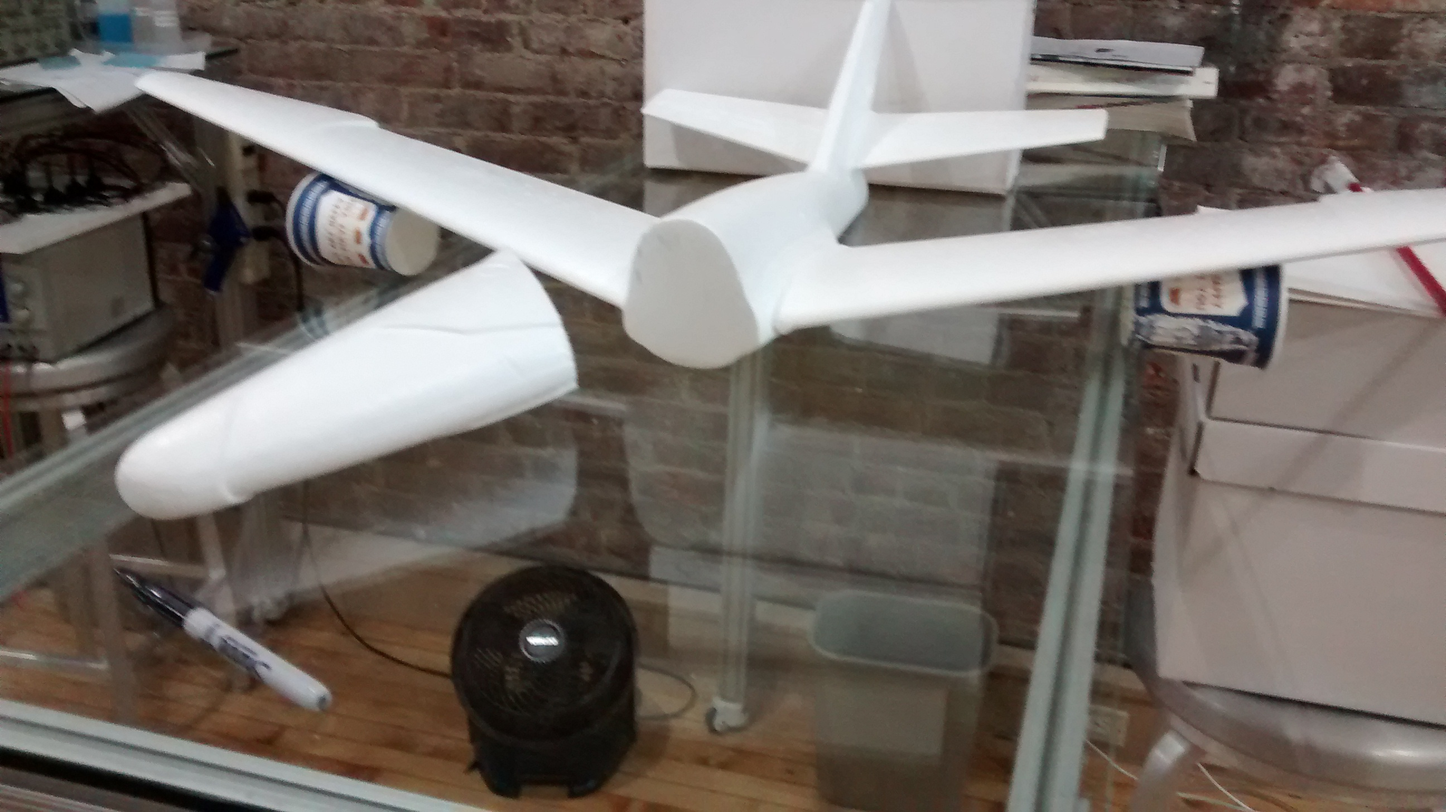
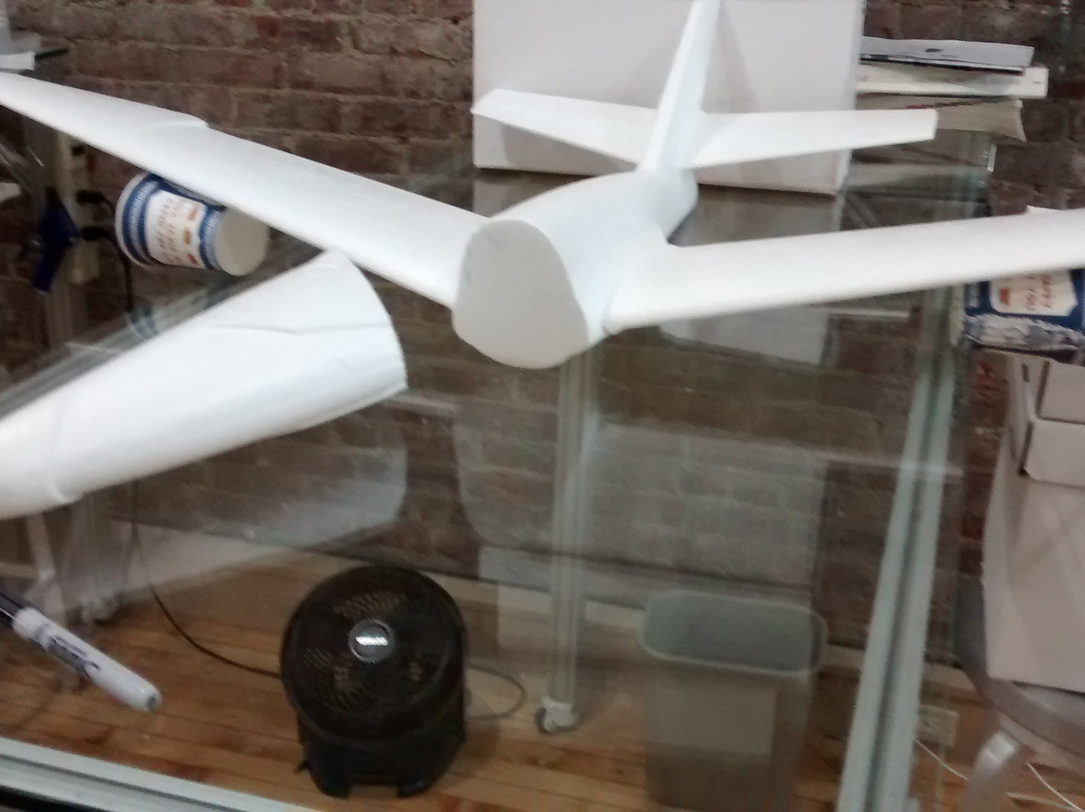
glider added to portfolio!

diff --git a/_portfolio/hardware/glider.md b/_portfolio/hardware/glider.md
@@ -2,23 +2,24 @@
 layout: project
 title: The Glider Phone Flight
 id: prof
-cat: mix category-3
+cat: mix category-1
 order: 18
 date: Oct 2014
-img: https://raw.githubusercontent.com/devChuk/Playing_With_Code/gh-pages/stuff/WIP.png
+img: ../res/img/portimg/glider/styro.jpg
 ---
-
-<center>![Image not found](https://raw.githubusercontent.com/devChuk/Playing_With_Code/gh-pages/stuff/WIP.png)<br>
-<small><i>This is a work in progress. There is no final project image yet.</i></small></center><br><br>
 
 At late September, I received an email from [Kite & Rocket](http://kiteandrocket.com/) telling me that the company was working on a [balloon launch](http://devchuk.github.io/portfolio/miscellaneous/balloon.html) for a [mini-maker faire](http://makerfaire.com/) in Providence, Rhode Island. They needed my help to set up the launch and gather materials to build another Balloon Phone.
 
-When I came in, it turns out that they changed their minds about the balloon launch. Instead of having balloons lift up a camera, they wanted to have balloons lift up a <b>glider containing the camera</b>. The idea was that after the balloons reach a certain altitude, a releasing mechanism would let go of the glider and have it gracefully fly away&mdash;all while transmitting a livestream to a large screen down on the ground. I had no idea how to build it, but I decided to take on the job anyways. Let's look at the materials we need. I grouped them in 
+When I came in, it turns out that they changed their minds about the balloon launch. Instead of having balloons lift up a camera, they wanted to have balloons lift up a <b>glider containing the camera</b>. The idea was that after the balloons reach a certain altitude, a releasing mechanism would let go of the glider and have it gracefully fly away&mdash;all while transmitting a livestream to a large screen down on the ground. I had no idea how to build it, so most of the things I did here were self-taught as I went. Let's look at the materials & tools I used. 
+
+Programming:
+>		an Arduino IDE
+>		decent knowledge in the Arduino programming language
 
 Electrical:
 >		electrical prototyping tools (breadboards, jumper cables, common sense, etc.)
 >		Arduino Mini with ATMega328
->		abutton press switch
+>		a button press switch
 >		VN2222 n-channel FET
 >		USB2Serial MicroUSB Arduino Mini connector
 >		a 9V battery
@@ -26,11 +27,10 @@ Electrical:
 >		a protoboard
 >		soldering tools, skills, and a steady hand
 
-
 Mechanical:
 >		cable ties
 >		ribbons
->		a helium tank
+>		a helium tan
 >		lots and lots of foil balloons
 >		a Verizon Wireless Prepaid Motorola Moto G No-Contract Cell Phone
 >		a 500 MB data plan with unlimited texting and stuff I still don't remember
@@ -39,4 +39,32 @@ Mechanical:
 >		a glider
 >		decent knowledge on flying mechanics
 
-The releasing mechanism was first built. The way it works it pretty simple. You turn it on. You press the countdown button. And then you release the balloon. After a specific time the releasing mechanism would release the balloon.
+The releasing mechanism was first built. The way it works it pretty simple. You turn it on. You press the countdown button. And then you release the balloon. After a specified amount of seconds a green LED would light up and the releasing mechanism would release the glider. To do the countdown, an .ino program was created.
+
+<center>![Image not found](../../res/img/portimg/glider/code.png)<br>
+<small><i>The program</i></small></center><br><br>
+
+After that, I created the circuit for the releasing mechanism. 
+
+<center>![Image not found](../../res/img/portimg/glider/schem.jpg)
+		![Image not found](../../res/img/portimg/glider/1.jpg)<br>
+<small><i>Prototyping</i></small></center>
+
+To be honest, I didn't plan out the circuit before I finished building the circuit. I just created each part of the circuit(the LED, the button, and the mechanical releaser) and connected them all together. I guess now that I think about it, most of the things I built which I had no idea how to engineer were all made without planning. It's a lot easier to create something and continue to modify it to solve any issues you notice instead of trying to predict all issues from the very beginning. Of course, planning should be done for in situations where you're working with expensive parts, complicated systems, or parts that are hard to undo modifications.
+
+<center>![Image not found](../../res/img/portimg/glider/2.jpg)<br>
+		![Image not found](../../res/img/portimg/glider/3.jpg)<br>
+<small><i>Uploading</i></small></center>
+
+Unlike other Arduinos, the Arduino mini is so tiny that it does not have a port to direct connect to the computer. Instead, a USB to Serial MicroUSB Arduino Mini connector is required, and the connector communicates to the Arduino through its own pins. This meant that I had to make sure that I could attach the connector to the circuit if I ever had to upload code to the Arduino. In the test run below, the releasing mechanism is set at a two second countdown for the sake of faster testing.
+
+<center><iframe width="979" height="551" src="//www.youtube.com/embed/kR9CeKd3Egc?rel=0" frameborder="0" allowfullscreen></iframe></center>
+
+After that, I used a soldering iron and moved the parts from the breadboard onto a protoboard. For those who don't know, solderings is when one melts an alloy with a 600&deg; F tool called a soldering iron in order to join metals together when the alloy cools down. The protoboard circuit is the same as the breadboard circuit other than the use of the blue on-and-off button press switch.
+
+<center>![Image not found](../../res/img/portimg/glider/4.jpg)
+		![Image not found](../../res/img/portimg/glider/5.jpg)
+		![Image not found](../../res/img/portimg/glider/6.jpg)<br>
+<small><i>The final build. Only 45 cm long!</i></small></center>
+
+Once the electrical and programming components were done, I started the mechanical portion. The idea was to have the camera attached to the very front of the plane, thus giving a real point of view of the airplane. It turns out that the company's sponsor for the event, Hasbro, rejected the idea of a glider launch. Hasbro wasn't willing to risk the chance of the glider crashing into a person. Thus, we ended up having a normal balloon camera like [last time](http://devchuk.github.io/portfolio/miscellaneous/balloon.html).

diff --git a/_portfolio/miscellaneous/balloon.md b/_portfolio/miscellaneous/balloon.md
@@ -2,7 +2,7 @@
 layout: project
 title: The Balloon Phone Flight
 id: prof
-cat: mix category-3 swagger
+cat: mix category-3
 order: 17
 date: Aug 2014
 img: ../res/img/portimg/balloon/float.jpg

diff --git a/_portfolio/software/seekbar.md b/_portfolio/software/seekbar.md
@@ -1,0 +1,11 @@
+---
+layout: project
+title: seekbar
+id: hobb
+cat: mix category-2
+order: 19
+date: Oct 2014
+img: ../res/img/portimg/glider/styro.jpg
+---
+
+Work in progress
